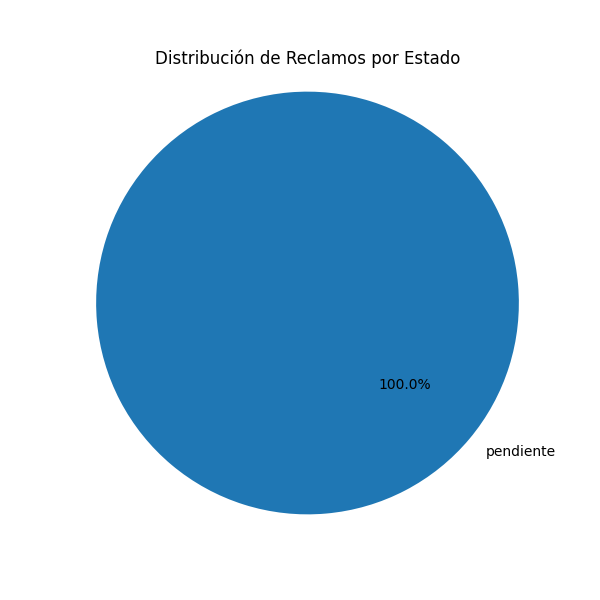
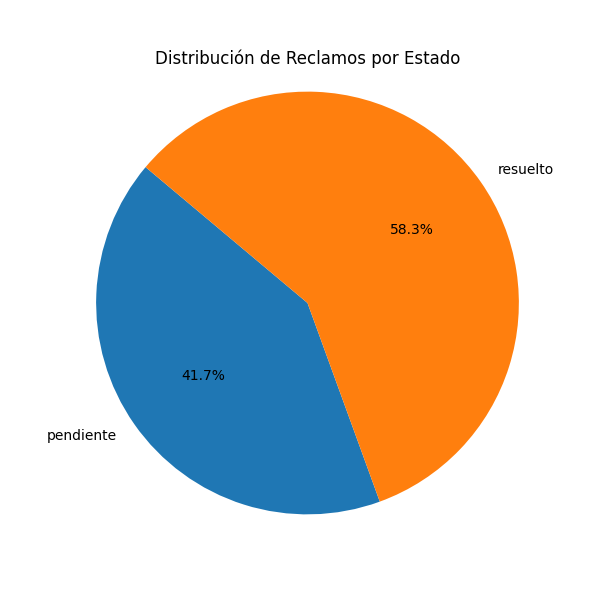
arreglo un par de cosas en los HTML

diff --git a/TrabajoPractico_3/proyecto_1/templates/manejo_reclamos.html b/TrabajoPractico_3/proyecto_1/templates/manejo_reclamos.html
@@ -33,11 +33,10 @@
                 <div class="form-group">
                     <label for="reclamo_id">ID del Reclamo:</label>
                     <select id="reclamo_id" name="reclamo_id" required>
-                        <!-- placeholder -->
                         <option value="" disabled selected>Seleccione un reclamo del departamento:</option>
                         {% for r in reclamos if r.estado != 'resuelto' %}
                             <option value="{{ r.id }}" {% if selected_id and r.id|string == selected_id %}selected{% endif %}>
-                                {{ r.id }} — {{ r.titulo }} — {{ r.estado }}
+                                {{ r.id }} — {{ r.contenido }} — {{ r.estado }}
                             </option>
                         {% endfor %}
                     </select>

diff --git a/TrabajoPractico_3/proyecto_1/templates/analitica_reclamos.html b/TrabajoPractico_3/proyecto_1/templates/analitica_reclamos.html
@@ -17,6 +17,9 @@
             <div class="flashcard">
                 <p><strong>Promedio de Adherentes:</strong> {{ promedio_adherentes }}</p>
             </div>
+            <div class ="flashcard"> 
+                <p>mediana = {{mediana}}</p>
+            </div>
         </div>
     </section>
 
@@ -70,6 +73,10 @@
             </div>
             {% endif %}
     </section>
+    
+    <div style="text-align:center;">
+        <a href="{{ url_for('inicio') }}" class="enlace-boton">volver</a>
+    </div>
 </main>
 
 

diff --git a/TrabajoPractico_3/proyecto_1/templates/inicio.html b/TrabajoPractico_3/proyecto_1/templates/inicio.html
@@ -20,6 +20,7 @@
                 {%endif%}
                 {% if current_user.rol in ['1','2', '3', '4'] %}
                     <li><a href="{{ url_for('analitica_reclamos') }}">Analíticas</a></li>
+                    <li><a href="{{ url_for('manejo_reclamos') }}">Manejo Reclamos</a></li>
                 {% endif %}
                 <li><a href="{{ url_for('logout') }}">Cerrar Sesión</a></li>
             {% else %}

diff --git a/TrabajoPractico_3/proyecto_1/server.py b/TrabajoPractico_3/proyecto_1/server.py
@@ -14,7 +14,7 @@ from modules.graficos import Graficadora, GraficadoraTorta, GraficadoraHistogram
 from modules.gestor_imagen_reclamo import GestorImagenReclamoPng
 import os
 import datetime as date
-import io
+from modules.monticulos import Estadisticas, MonticuloBinario, MonticuloMediana
 
 base_datos = GestorBaseDatos("sqlite:///data/base_datos.db")
 base_datos.conectar()
@@ -169,7 +169,6 @@ def adherirse(reclamo_id):
 def listar_reclamos():
     reclamos = repo_reclamos.obtener_todos_los_registros(current_user.id)
     return render_template('listar_reclamos.html', reclamos=reclamos)
-
 @app.route("/analitica")
 @login_required
 def analitica_reclamos():
@@ -182,7 +181,8 @@ def analitica_reclamos():
     rol_usuario = current_user.rol
     clasificacion_usuario = clasificacion_map.get(rol_usuario)
     es_secretario = (rol_usuario == "1")
-
+    reclamos = repo_reclamos.obtener_registros_por_filtro(filtro='estado', valor='resuelto')
+    
     generador = GeneradorReportes(repo_reclamos)
     graficadora = Graficadora(
         generador_reportes=generador,
@@ -197,15 +197,25 @@ def analitica_reclamos():
 
     cantidad_total = generador.cantidad_total_reclamos()
     promedio_adherentes = round(generador.cantidad_promedio_adherentes(), 2)
+    
+    tiempo_resolucion = []
+    
+    for reclamo in reclamos:
+        
+        tiempo_resolucion.append(reclamo.resuelto_en)
+        
+    monticulo = MonticuloMediana(tiempo_resolucion)
+    mediana_resolucion = monticulo.obtener_mediana()
 
     return render_template(
         "analitica_reclamos.html",
         current_user=current_user,
         cantidad_total=cantidad_total,
         promedio_adherentes=promedio_adherentes,
-        graficos=rutas  # Diccionario con claves como 'torta' y 'histograma'
+        mediana_resolucion=mediana_resolucion,
+        graficos=rutas,
+        mediana = mediana_resolucion
     )
-
 
 @app.route('/editar_reclamo/<int:reclamo_id>', methods=['GET', 'POST'])
 @login_required

diff --git a/TrabajoPractico_3/proyecto_1/poblar_base.py b/TrabajoPractico_3/proyecto_1/poblar_base.py
@@ -157,7 +157,7 @@ if __name__ == "__main__":
         try:
             usuario = choice(usuarios_db)
             clasificacion = clf.clasificar([desc])[0]
-            estado = "pendiente"
+            estado = choice(["pendiente", "resuelto"])
             fecha_random = datetime.utcnow() - timedelta(days=randint(0, 60))
             departamento = choice(departamentos_posibles)  # Elegir aleatoriamente
 
@@ -172,6 +172,10 @@ if __name__ == "__main__":
             modelo.estado = estado
             modelo.fecha_hora = fecha_random
             modelo.cantidad_adherentes = randint(0, 20)
+            if estado == "resuelto":
+                modelo.resuelto_en = randint(5, 15)
+            else:
+                modelo.resuelto_en = "no resuelto"
 
             repo_reclamos.guardar_registro(modelo)
             print(f"✔ Reclamo [{estado}] creado para {usuario.nombre_de_usuario} en {departamento}: {desc}")

diff --git a/TrabajoPractico_3/proyecto_1/modules/reportes.py b/TrabajoPractico_3/proyecto_1/modules/reportes.py
@@ -127,6 +127,8 @@ class GeneradorReportes:
             4: 'maestranza'
         }
         return mapa_roles.get(rol_int)
+    
+        
 
 
     def obtener_datos_para_torta(self, rol):
